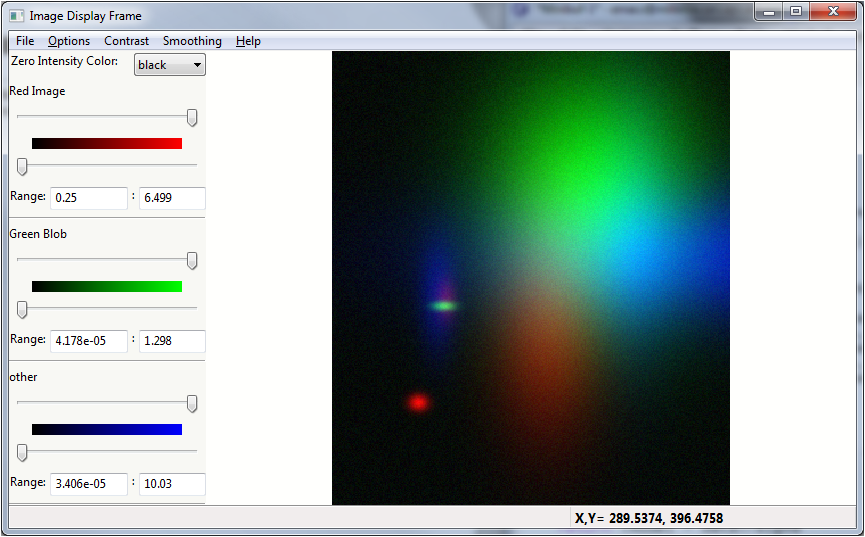
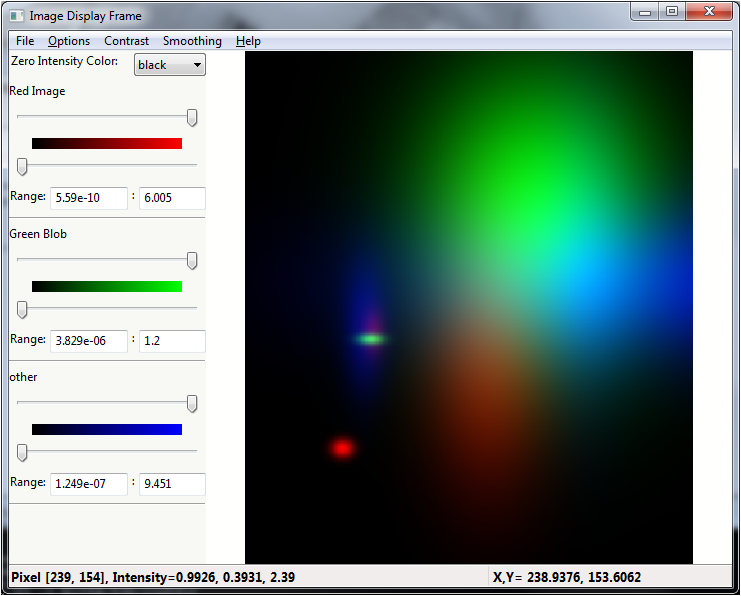
updated imagepanel doc

diff --git a/doc/imagepanel.rst b/doc/imagepanel.rst
@@ -249,9 +249,9 @@ In addition, one can bring up a screen to set the number of contour levels.
 -----------------
 
 If the data array has three dimensions, and has a shape of (NY, NX, 3), it
-is assumed to be  a 3 color map.  In this case, the scales for the
-individual colors can be manipulated separately.
-For example:
+is assumed to be a 3 color map, holding Red, Green, and Blue intensities.
+In this case, the Image Frame will show sliders and min/max controls for
+each of the three colors.  For example:
 
 .. literalinclude:: ../examples/rgb_image.py 
 
@@ -260,6 +260,14 @@ giving a plot that would look like this:
 .. image:: images/image_3color.png
    :width: 85%
 
+
+Note that there is also a selection for the *Zero Intensity Color' which
+can either be 'black' or 'white'.   The same image with a white background
+looks like: 
+
+
+.. image:: images/image_3color_white.png
+   :width: 85%
 
 
 
